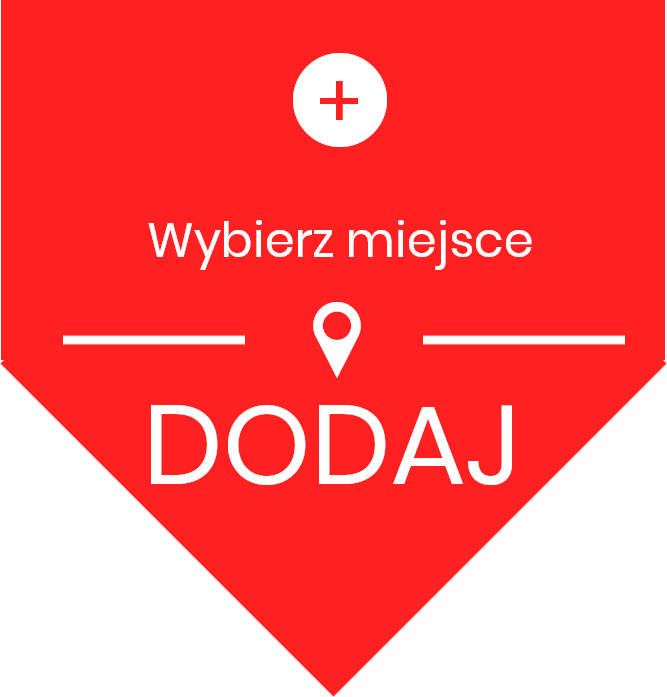
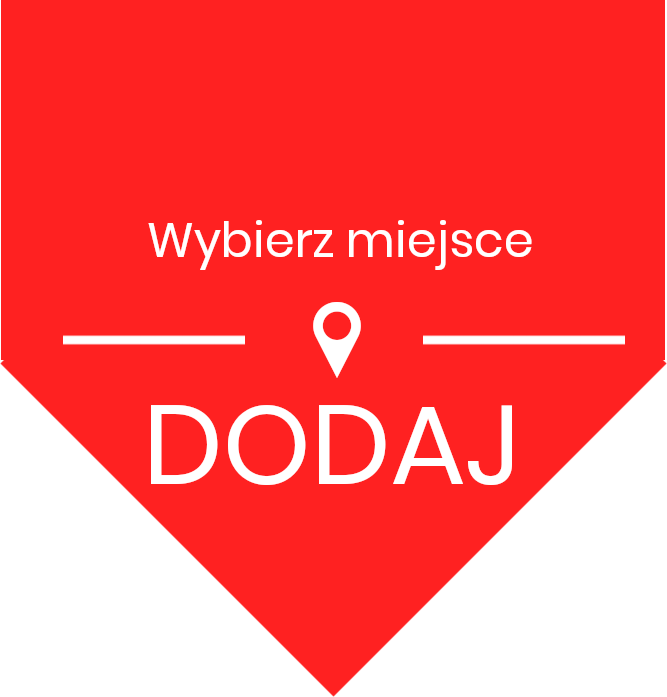
Can't think of commit names any more

Changed region(s): [[0.4198, 0.0603, 0.5997, 0.2109]]

diff --git a/index.html b/index.html
@@ -9,7 +9,10 @@
 	<div id="mainlogo" class="mainlogo">
 		<img src="img/mainlogo.png"/>
 	</div>
-	<div id="sidebar" class="sidebar" onmouseover="showSidebar()" onmouseleave="">
+	<div id="addpanel" class="addpanel" onclick="togglePanel()">
+		<img src="img/dodaj.png"/>
+	</div>
+	<div id="sidebar" class="sidebar" onmouseover="showSidebar()" onmouseleave="hideSidebar()">
 		<img src="img/pasek.png" id="sidebar-bg" class="sidebar-bg">
 		<div class="sidebar-contents">
 			<img src="img/logo.png" class="sidebar-logo">
@@ -43,7 +46,8 @@
 	<script src="js/main.js"></script>
 	<script src="js/map.js"></script>
 	<script src="js/sidebar.js"></script>
-	<script async defer src="https://maps.googleapis.com/maps/api/js?key=AIzaSyAdyfOSV96f6xESZWf743xHprwOa3cjYnY&callback=initMap">
+	<script src="js/addpanel.js"></script>
+	<script async defer src="https://maps.googleapis.com/maps/api/js?key=AIzaSyAdyfOSV96f6xESZWf743xHprwOa3cjYnY&libraries=visualization&callback=initMap">
 	</script>
     </body>
 </html>

diff --git a/js/addpanel.js b/js/addpanel.js
@@ -1,0 +1,44 @@
+var panelVisible;
+var panelShown = false;
+var panelHeight = 0;
+var panelRectangleHeight = 0;
+
+function togglePanel()
+{
+	if (panelShown)
+	{
+		hidePanel();
+	}
+	else
+	{
+		showPanel();
+	}
+
+	panelShown = !panelShown;
+}
+
+function showPanel()
+{
+	document.getElementById("addpanel").style.marginTop = "-616px";
+}
+
+function hidePanel()
+{
+	document.getElementById("addpanel").style.marginTop = "-675px";
+}
+
+function updatePanelHeight()
+{
+	panelHeight = (document.getElementById("addpanel-bg").clientHeight);
+	panelRectangleHeight = Math.ceil(panelHeight * 62/90) + 1;
+
+	document.getElementById("addpanel").style.height = "" + panelHeight + "px";
+	if (!sidebarShown)
+	{
+		//document.getElementById("sidebar").classList.add("no-transition");
+		document.getElementById("addpanel").style.marginTop = "-" + panelRectangleHeight + "px";
+		//document.getElementById("sidebar").classList.remove("no-transition");
+	}
+}
+
+updatePanelHeight();

diff --git a/css/style.css b/css/style.css
@@ -98,12 +98,28 @@ body
 	width: 100%;
 	height: 100%;
 
+
 }
 
 .mainlogo img
 {
 	height: 30%;
 	position: relative;
+}
+
+.addpanel
+{
+	width: 100%;
+	height: 100%;
+	position: absolute;
+	right: -1100px;
+	margin-top: -675px;
+	transition: margin-top 1s;
+}
+
+.addpanel img
+{
+	height: 25%;
 }
 
 ::-webkit-scrollbar

diff --git a/js/map.js b/js/map.js
@@ -55,3 +55,13 @@ function showPointsOfInterest(jsonFile)
 		activeMarkers.push(marker);
 	});
 }
+
+function showHeatmap(jsonFile)
+{
+	var request = new XMLHttpRequest();
+	request.open("GET", jsonFile, false);
+	request.send(null);
+	var allPoiData = JSON.parse(request.responseText);
+
+	
+}

diff --git a/js/main.js b/js/main.js
@@ -1,4 +1,5 @@
 function onResize()
 {
 	updateSidebarWidth();
+	updatePanelHeight();
 }
